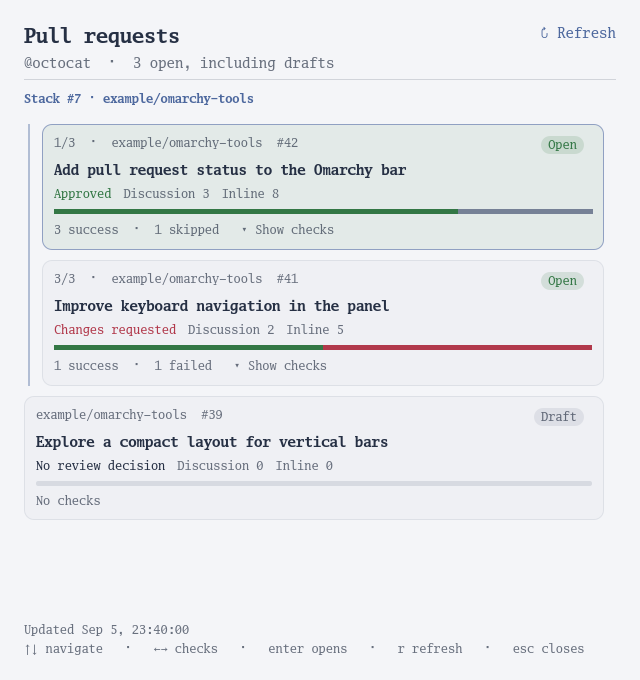
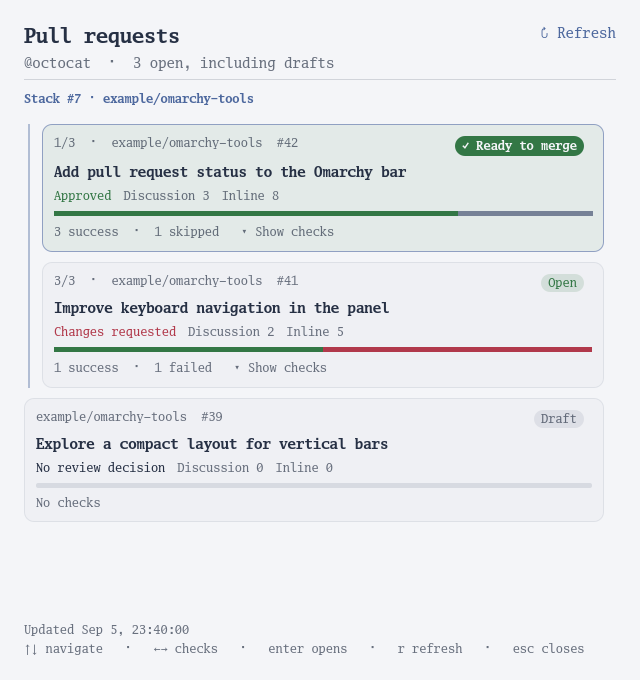
Make merge-ready PRs visible for v1.1.1
Ready PRs were difficult to distinguish from other open PRs, and cancelled checks hid readiness even when GitHub reported a clean merge state.

Show a solid Ready to merge badge and allow cancelled checks when the existing mergeability and passing-CI guards hold. Add regression coverage, refresh previews, and document local and live validation.

diff --git a/tests/ui/tst_content.qml b/tests/ui/tst_content.qml
@@ -106,11 +106,13 @@ Item {
             data.prs[0].counts.success = 3
             return data
         }
-        function test_merge_ready_accent_requires_fresh_passing_state() {
+        function test_merge_ready_badge_requires_fresh_passing_state() {
             content.snapshot = readyExample()
             wait(100)
             let list = findChild(content, "prList")
             verify(list.itemAtIndex(0).mergeReady)
+            compare(findChild(list.itemAtIndex(0), "prStatusText").text, "✓ Ready to merge")
+            verify(findChild(list.itemAtIndex(0), "prStatusText").font.bold)
             verify(!list.itemAtIndex(1).mergeReady)
             let blockers = [ { draft: true }, { error: "Offline" }, { mergeable: "UNKNOWN" },
                 { mergeStateStatus: "BLOCKED" }, { review: "Review required" }, { checks: [] , counts: { success: 0 } } ]
@@ -120,6 +122,7 @@ Item {
                 content.snapshot = data
                 wait(30)
                 verify(!list.itemAtIndex(0).mergeReady)
+                compare(findChild(list.itemAtIndex(0), "prStatusText").text, blocker.draft ? "Draft" : "Open")
             }
             for (let flag of ["stale", "partial"]) {
                 let data = readyExample()
@@ -127,13 +130,34 @@ Item {
                 content.snapshot = data
                 wait(30)
                 verify(!list.itemAtIndex(0).mergeReady)
+                compare(findChild(list.itemAtIndex(0), "prStatusText").text, "Open")
             }
-            for (let status of ["CANCELLED", "FAILURE", "IN_PROGRESS", "UNKNOWN"]) {
+            for (let status of ["FAILURE", "IN_PROGRESS", "UNKNOWN"]) {
                 let data = readyExample()
                 data.prs[0].checks[2] = { name: "Integration tests", status: status, bucket: "unknown" }
                 content.snapshot = data
                 wait(30)
                 verify(!list.itemAtIndex(0).mergeReady)
+                compare(findChild(list.itemAtIndex(0), "prStatusText").text, "Open")
+            }
+        }
+        function test_cancelled_check_allows_badge_only_with_clean_merge_state() {
+            let data = readyExample()
+            data.prs[0].checks[2] = { name: "Optional preview", status: "CANCELLED", bucket: "skipped" }
+            data.prs[0].counts.success--
+            data.prs[0].counts.skipped++
+            content.snapshot = data
+            wait(100)
+            let list = findChild(content, "prList")
+            verify(list.itemAtIndex(0).mergeReady)
+            compare(findChild(list.itemAtIndex(0), "prStatusText").text, "✓ Ready to merge")
+            for (let state of ["BLOCKED", "UNKNOWN"]) {
+                let blocked = JSON.parse(JSON.stringify(data))
+                blocked.prs[0].mergeStateStatus = state
+                content.snapshot = blocked
+                wait(30)
+                verify(!list.itemAtIndex(0).mergeReady)
+                compare(findChild(list.itemAtIndex(0), "prStatusText").text, "Open")
             }
         }
         function init() {

diff --git a/PrRow.qml b/PrRow.qml
@@ -19,7 +19,8 @@ Item {
         && !!pr.counts && pr.counts.success > 0
         && pr.counts.running === 0 && pr.counts.failed === 0 && pr.counts.unknown === 0
         && !!pr.checks && pr.checks.every(function(check) {
-            return check.bucket === "success" || check.status === "SKIPPED" || check.status === "NEUTRAL"
+            return check.bucket === "success" || check.status === "SKIPPED"
+                || check.status === "NEUTRAL" || check.status === "CANCELLED"
         })
     signal openRequested()
     signal expandRequested()
@@ -87,17 +88,23 @@ Item {
             }
             Rectangle {
                 id: badge
+                objectName: "prStatusBadge"
                 width: badgeText.implicitWidth + Style.space(14)
                 height: badgeText.implicitHeight + Style.space(4)
                 radius: height / 2
-                color: Util.alpha(root.pr.draft ? Color.muted : root.colors.success, 0.15)
+                color: root.mergeReady ? root.colors.success
+                    : Util.alpha(root.pr.draft ? Color.muted : root.colors.success, 0.15)
                 Text {
                     id: badgeText
+                    objectName: "prStatusText"
                     anchors.centerIn: parent
-                    text: root.pr.draft ? "Draft" : "Open"
-                    color: root.pr.draft ? root.muted : root.colors.success
+                    text: root.mergeReady ? "✓ Ready to merge" : root.pr.draft ? "Draft" : "Open"
+                    textFormat: Text.PlainText
+                    color: root.mergeReady ? Color.popups.background
+                        : root.pr.draft ? root.muted : root.colors.success
                     font.family: root.family
                     font.pixelSize: Style.font.bodySmall
+                    font.bold: root.mergeReady
                 }
             }
         }

diff --git a/VALIDATION.md b/VALIDATION.md
@@ -127,3 +127,22 @@ this version.
   unknown data, stale snapshots, and merge/review blockers suppress the accent.
 - QML lint, plugin validation, and all 12 UI checks pass; dark/light previews
   were visually inspected. Keyboard selection retains its existing border.
+
+## Explicit merge-ready badge (2026-09-09)
+
+- Ready PRs now replace the Open pill with a solid green, bold
+  “✓ Ready to merge” badge. Cancelled checks are allowed when GitHub reports
+  MERGEABLE/CLEAN; all other readiness guards remain in place.
+- QML lint, plugin validation, and all 13 UI checks pass. Regression assertions
+  verify the badge returns to Open or Draft for stale, partial, or blocked data.
+- Release v1.1.1 checks also pass all 58 Python tests.
+- Regenerated and visually inspected fictional dark/light previews; the badge
+  fits alongside repository metadata and remains legible in both themes.
+- Installed the checkout locally and verified all runtime files, manifest, and
+  previews match. Restarted the shell and inspected the running panel.
+- Initial live validation exposed a mismatch: cancellation was counted as
+  skipped but suppressed the badge despite GitHub reporting MERGEABLE/CLEAN.
+  Added regression coverage allowing cancellation only with a clean merge state.
+- Reinstalled and restarted the shell after that correction. Visually confirmed
+  the live candidate displays “✓ Ready to merge”; review-required rows still
+  display Open. No private PR metadata is included in this report.

diff --git a/README.md b/README.md
@@ -15,8 +15,10 @@ repositories the account can access. No repository configuration required.
   conversation comments. Inline counts submitted code-review comments and replies,
   including resolved/outdated discussions and dismissed reviews. Pending review
   comments and review summary text are excluded.
-- A subtle green card tint and border when fresh data confirms merge readiness
-  and passing CI. Running, failed, unknown, or cancelled checks suppress it;
+- A solid green “✓ Ready to merge” badge, plus a subtle card tint and border,
+  when fresh data confirms merge readiness
+  and passing CI. Cancelled checks are allowed when GitHub reports a clean,
+  mergeable PR. Running, failed, or unknown checks suppress it;
   skipped/neutral checks are allowed alongside at least one passing check.
 - A proportional check bar. Click its summary, or use Left/Right, to see the
   individual check names and original GitHub statuses.

diff --git a/CHANGELOG.md b/CHANGELOG.md
@@ -1,5 +1,19 @@
 # Changelog
 
+## 1.1.1 — 2026-09-09
+
+- Replace the Open pill with a solid green “✓ Ready to merge” badge when fresh
+  data confirms readiness, retaining the subtle card tint and border.
+- Allow cancelled checks alongside passing CI when GitHub reports MERGEABLE and
+  CLEAN, matching its ready-to-merge state. Drafts, stale/partial data,
+  review/merge blockers, and running, failed, or unknown checks still suppress
+  the badge.
+- Add badge regression coverage and refresh the fictional dark/light previews.
+
+No new requirements. If the old badge persists after updating, run
+`omarchy restart shell` to reload cached QML components; this briefly reloads
+the bar and desktop overlays.
+
 ## 1.1.0 — 2026-09-09
 
 - Notify when a PR previously needing review becomes approved and ready to merge.
